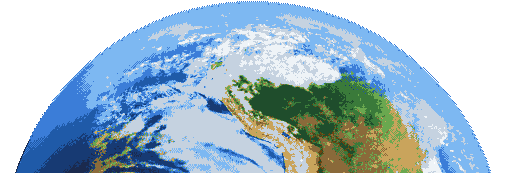
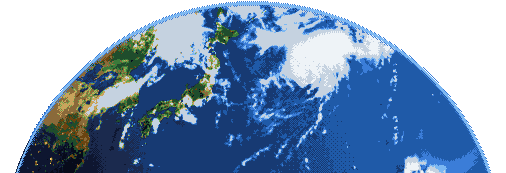
Large Earth limb shows surface, not haze
EarthLarge is now taken from inside the Pacific still (zoom 0.75, shifted so
Japan, a storm system and open ocean sit at the top of the limb) instead of the
hazy edge of the Americas still. The atmosphere is a thin band: two pixels of
light blue, then three rows of dithered blue. The Hangar and Flight framings
raise the limb a little so more of it shows below the spacecraft.

diff --git a/src/Interface/Backdrop/Backdrop.tsx b/src/Interface/Backdrop/Backdrop.tsx
@@ -26,8 +26,8 @@ interface Framing {
 const Framings: Readonly<Record<Screen, Framing>> = {
   [Screen.Home]: { globe: Globe.Medium, x: 0.74, y: -0.03, drift: [0, 0] },
   [Screen.Week]: { globe: Globe.Large, x: 0.5, y: 0.64, drift: [-8, -14] },
-  [Screen.Hangar]: { globe: Globe.Large, x: 0.47, y: 0.8, drift: [-14, -22] },
-  [Screen.Flight]: { globe: Globe.Large, x: 0.54, y: 0.67, drift: [6, -18] },
+  [Screen.Hangar]: { globe: Globe.Large, x: 0.47, y: 0.76, drift: [-14, -22] },
+  [Screen.Flight]: { globe: Globe.Large, x: 0.54, y: 0.62, drift: [6, -18] },
   [Screen.Debrief]: { globe: Globe.Large, x: 0.5, y: 0.43, drift: [0, -8] },
   [Screen.Lab]: { globe: Globe.Small, x: 0.86, y: 0.49, drift: [16, -4] },
 }

diff --git a/Tools/MakeBackdrop.py b/Tools/MakeBackdrop.py
@@ -18,6 +18,8 @@ Lights = Hex('#ffcf6b')
 Surface = Night + Ocean + Cloud + Land + Dusk
 Palette = [(0, 0, 0)] + Surface + [Lights]
 LightShare = 24
+LargeSource = 'Pacific'
+LargeView = (0.75, -0.05, 0.13)
 Haze = 0.7
 HazeStart = 0.86
 Tint = (52, 112, 206)
@@ -63,23 +65,36 @@ def Despeckle(grid, size, keep):
     return out
 
 
-def Render(still, lights, diameter, keepRows=None):
+def Render(still, lights, diameter, keepRows=None, view=None):
     radius = diameter / 2
     pad = 3
     size = diameter + pad * 2
-    span = SourceRadius * 2
     box = (SourceCentre - SourceRadius, SourceCentre - SourceRadius, SourceCentre + SourceRadius, SourceCentre + SourceRadius)
     small = still.resize((diameter, diameter), Image.BOX, box=box).load()
     lit = lights.resize((diameter, diameter), Image.BOX, box=box).load()
     grid = [[None] * size for _ in range(size)]
-    step = span / diameter
+    if view:
+        zoom, shiftX, shiftY = view
+        factor = SourceRadius * zoom / radius
+        scaled = (round(still.size[0] / factor), round(still.size[1] / factor))
+        small = still.resize(scaled, Image.BOX).load()
+        lit = lights.resize(scaled, Image.BOX).load()
+        sample = lambda x, y: (int((SourceCentre + shiftX * SourceRadius) / factor + x - pad + 0.5 - radius), int((SourceCentre + shiftY * SourceRadius) / factor + y - pad + 0.5 - radius))
+    else:
+        sample = lambda x, y: (x - pad, y - pad)
     for y in range(size):
         for x in range(size):
             dx, dy = x - pad + 0.5 - radius, y - pad + 0.5 - radius
             distance = (dx * dx + dy * dy) ** 0.5
             if distance < radius:
-                colour = Dehaze(small[x - pad, y - pad], distance / radius)
-                if lit[x - pad, y - pad] > LightShare and sum(colour) < 150:
+                at = sample(x, y)
+                colour = small[at] if view else Dehaze(small[at], distance / radius)
+                edge = radius - distance
+                if view and edge < 1.6:
+                    grid[y][x] = Ocean[3]
+                elif view and edge < 4.6 and Bayer[y % 4][x % 4] < (8 if edge < 3.1 else 4):
+                    grid[y][x] = Ocean[2]
+                elif lit[at] > LightShare and sum(colour) < 150:
                     grid[y][x] = Lights
                 else:
                     grid[y][x] = Quantise(colour, x, y)
@@ -121,8 +136,8 @@ def RemoveGlint(still):
 
 def Main():
     Target.mkdir(parents=True, exist_ok=True)
-    for name, source, diameter, keep in (('EarthLarge', 'Americas', 500, 170), ('EarthMedium', 'Pacific', 250, None), ('EarthSmall', 'Pacific', 140, None)):
-        image = Render(*Prepare(source), diameter, keep)
+    for name, source, diameter, keep, view in (('EarthLarge', LargeSource, 500, 170, LargeView), ('EarthMedium', 'Pacific', 250, None, None), ('EarthSmall', 'Pacific', 140, None, None)):
+        image = Render(*Prepare(source), diameter, keep, view)
         image.save(Target / f'{name}.png', optimize=True, transparency=0)
         print(name, image.size)
 
